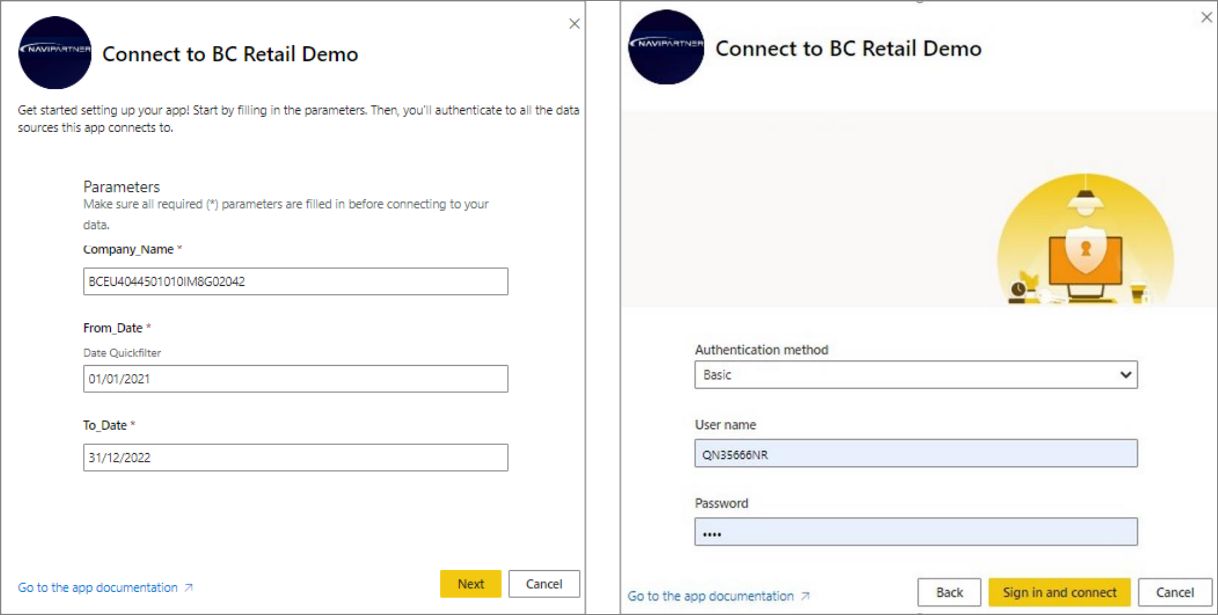
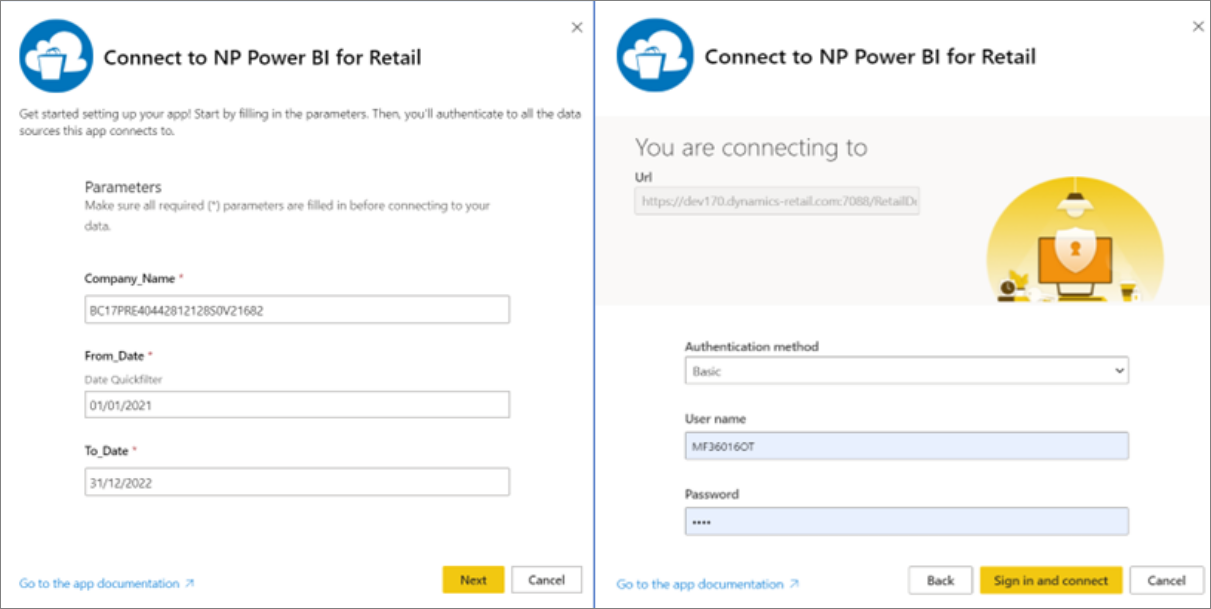
Merged PR 14063: NP Power BI for Entertainment articles
- new articles
- toc
- new folder
- screenshots

Related work items: #6352

diff --git a/Documentation/public/power_bi/power_bi_entertainment/howto/install_power_bi_entertainment.md b/Documentation/public/power_bi/power_bi_entertainment/howto/install_power_bi_entertainment.md
@@ -1,14 +1,15 @@
-# Install NP Power BI for Retail
+# Install Power BI for Entertainment
 
-Take control over your operations by using the Power BI app for retail business. To install the application, follow the provided steps:
+Take control over your operations by using the Power BI app for entertainment. To install the application, follow the provided steps:
+
 
 ## Prerequisites
 
 Prior to the installation of the Power BI app, request a free BC account from the [NaviPartner website](https://www.navipartner.com/get-trial/).   
 
-1. Populate and submit the registration form.    
+1. Populate and submit the registration form.
        ![Registration_form](./../images/Picture1.png)       
-2. On the following screen, select the theme, and then the **ERP system** link.      
+2.  On the following screen, select the theme, and then the **ERP system** link.      
        ![Erp_system](./../images/Pic1a.png)    
        Once the registration is completed, you will receive the necessary credentials. They will be expressed in the following format:
 
@@ -16,26 +17,26 @@ Prior to the installation of the Power BI app, request a free BC account from th
     **username: K07747JI**    
     **password: 9653453**
 
-3. Use the credentials in the final step of the installation to connect to your Power BI Retail report with your test database.
+3. Use the credentials in the final step of the installation to connect to your Power BI Entertainment report with your test database.
 
 ## Procedure
 
 1. Log into your Power BI account. 
-2. Go to the [Microsoft app store](https://apps.microsoft.com/store/apps) and find our product **NP BI RETAIL**. Click **Free trial** to run the installation wizard.    
-   <img src="./../images/Pic2.png" width="270">
-3. Once the installation wizard is displayed, click **Install**.     
+2. Go to the [Microsoft app store](https://apps.microsoft.com/store/apps) and find our product **NP BI ENTERTAINMENT**. Click **Free trial** to run the installation wizard.    
+   ![NP_BI_Entertainment](../images/NP_Power_BI_Entertainment.png)
+3.  Once the installation wizard is displayed, click **Install**.     
    ![Install_Power_BI](./../images/Pic3.jpg)              
-   When the application is installed, it will be added to your list in the **Apps** section.      
+    When the application is installed, it will be added to your list in the **Apps** section.      
    ![Microsoft_Apps](./../images/Pic3a.png)
 4. If you've already installed the application, you can update it to the new version by selecting the first option in the update app pop-up window, or install a new copy by selecting the third option. After selecting the third option, you need to  add a new name of the installation app, and confirm it.    
    ![Update_app](./../images/Pic4.jpg)
 5. Once the app is installed, click on the application name to open its content.     
-   You can review the contents with the test data or connect to your test database from Business Central. 
-6. To connect to your data from the Business Central, you need to click **Connect your data** in the alert ribbon.      
-    ![Power_BI_alert](./../images/pic5.png)
-7. In the **Connect to BC Retail Demo** popup window populate the three fields as indicated in the provided screenshots.   
-   ![connect_to_BC_retail_demo](./../images/app_store_instructions.PNG)    
-
+   You can review the contents with the test data or connect to your test database from Business Central.
+6. To connect to your data from the Business Central, click **Connect your data** from the alert ribbon.         
+   ![NP_BI_Entertainment_Pic2](./../images/NP_Power_BI_Entertainment_Pic2.png)
+7. In the **Connect to NP Power BI for Entertainment** popup window populate the three fields as indicated in the provided screenshots.        
+   ![entertainment joint](./../images/entertainment_joint.PNG)       
+   
 > [!Note]
 > Ensure that you don't have any blank characters in the beginning and the end of the text you provide.
 
@@ -43,6 +44,7 @@ Prior to the installation of the Power BI app, request a free BC account from th
 9. Click **Sign in and connect** to synchronize your Power BI app with the data from Business Central.     
     This action may take some time, and after it's completed you will be able to see the refreshed data from your demo database. 
 
+
 ### Related links
 
-- [NP Power BI for Retail](../intro.md)
+- [NP Power BI for Entertainment](../intro.md)

diff --git a/Documentation/public/power_bi/power_bi_entertainment/intro.md b/Documentation/public/power_bi/power_bi_entertainment/intro.md
@@ -1,0 +1,18 @@
+# NP Power BI for Entertainment
+
+The Power BI Entertainment Report is created as a tool for analyzing business operations related to the provided services, for instance, for organizing cultural events, exhibitions, performances, and amusement activities. Therefore, this strictly specialized report is ideal for museums, theaters, cinemas, amusement parks, and other institutions whose operating income is generated from selling tickets and memberships.
+
+Some of the topics covered by this report are:
+
+- Tracking sold tickets and realized visits through different time intervals.
+- Analyzing realized visits per ticket type, item category, and item.
+- Monitoring the busiest period of the day or the week per visit.
+- Tracking status of members as new, renewed, expired and updated through different time intervals.
+- Showing active memberships per membership type in the previous and incoming period.
+- The efficiency of employees in selling tickets.
+- The number of sold tickets per customer and membership type. 
+- The number of transactions per transaction type, item, and membership.
+
+### Related links
+
+- [Install NP Power BI for Entertainment](howto/install_power_bi_entertainment.md)

diff --git a/Documentation/public/wms/explanation/fifo_and_lifo.md b/Documentation/public/wms/explanation/fifo_and_lifo.md
@@ -1,4 +1,4 @@
-# Inventory management approaches (FIFO and LIFO)
+# Inventory costing methods
 
 Inventory management is a very important function for all product-oriented businesses. The valuation approach you chose can greatly impact the businesses' logistics, profitability, and income, so it's recommended to research how each of these can be used to maximize your profits.
 
